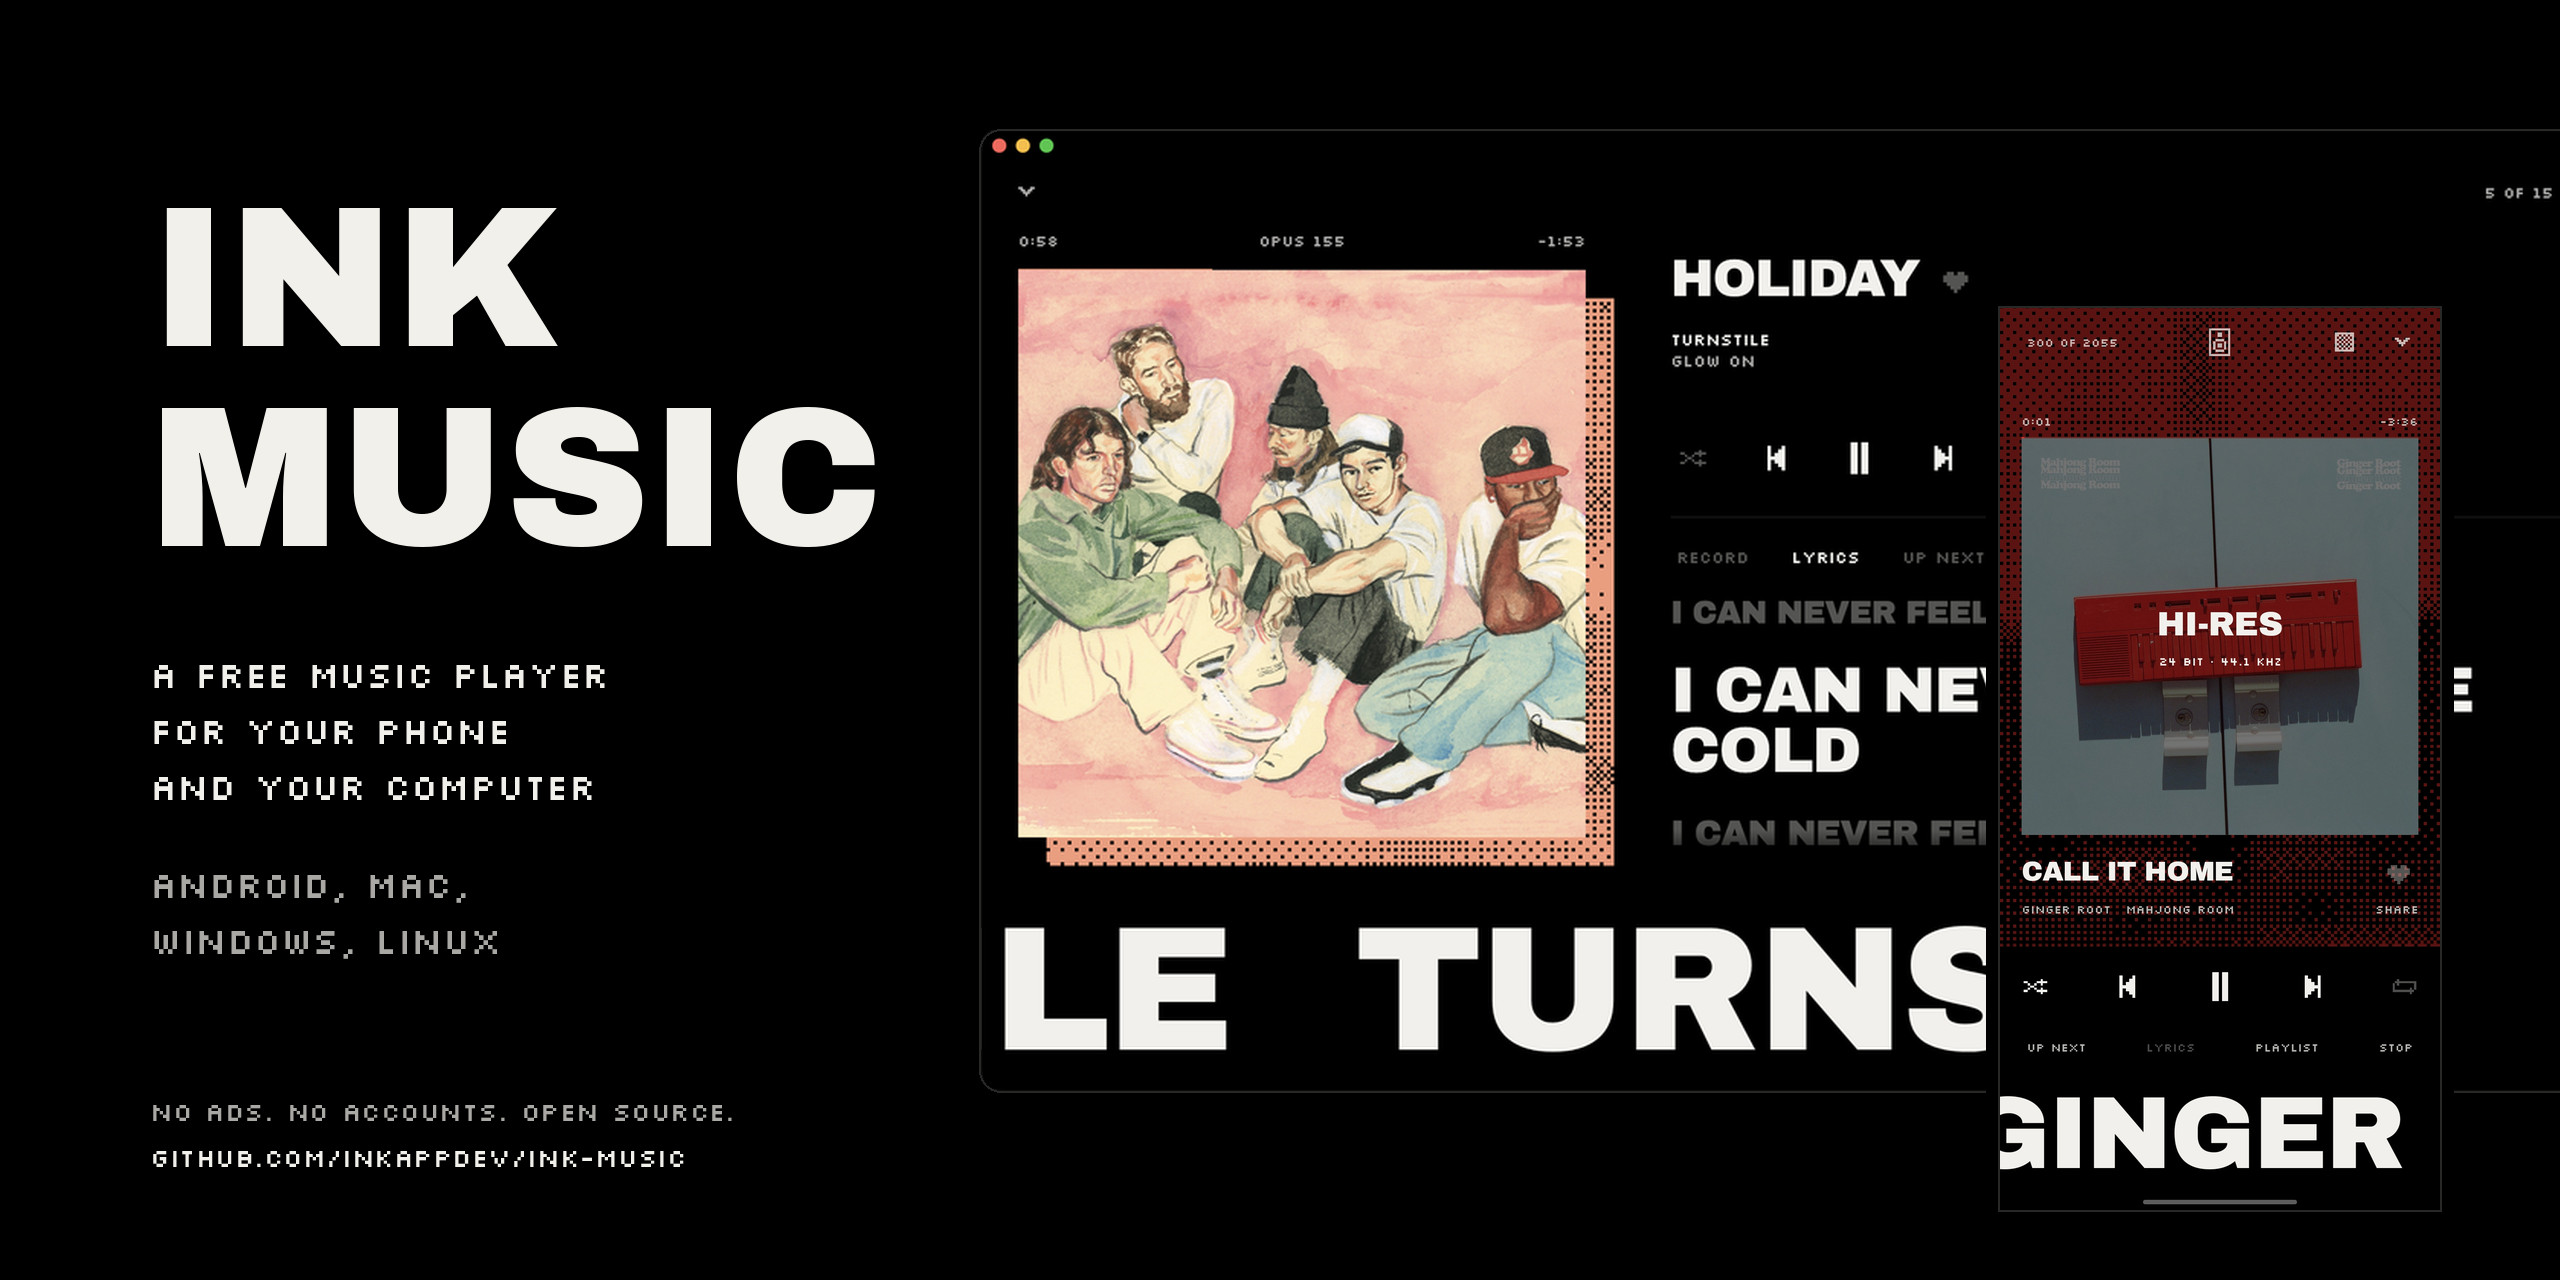
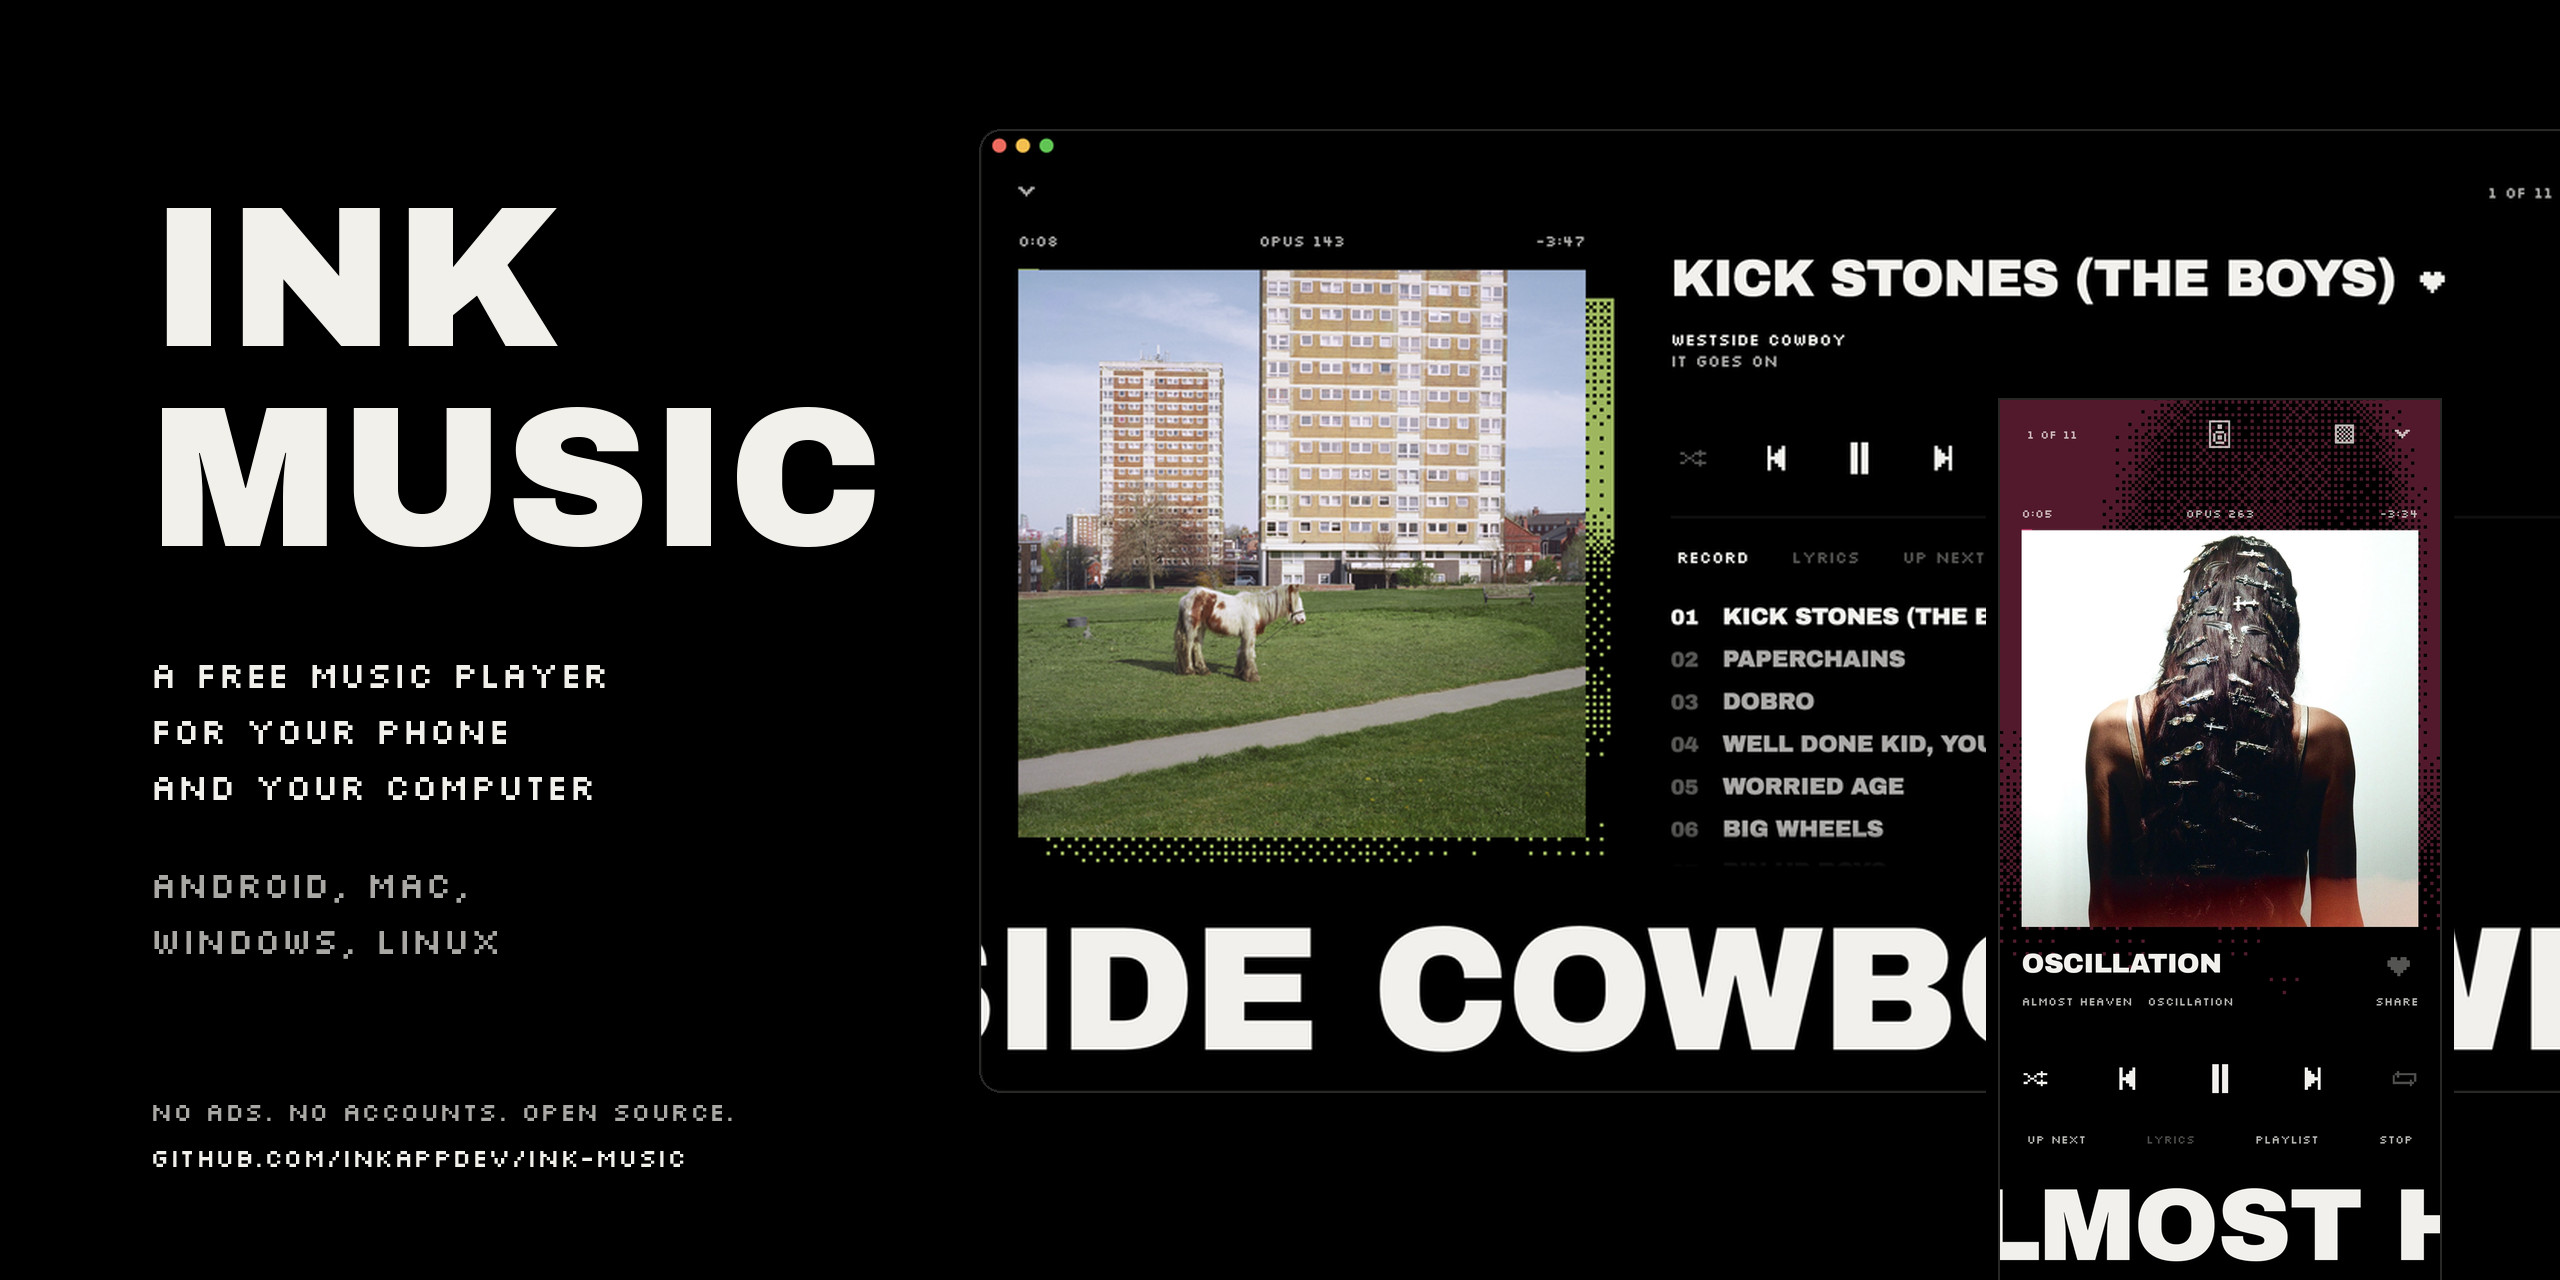
The social preview: Westside Cowboy's Kick Stones on the computer, Almost Heaven's Oscillation on the phone; make-social.py takes a picture's path for the phone too

Changed region(s): [[0.375, 0.1875, 1.0, 0.8438], [0.7812, 0.8125, 0.9688, 1.0], [0.9688, 0.125, 1.0, 0.1562]]

diff --git a/tools/make-social.py b/tools/make-social.py
@@ -5,7 +5,8 @@ any screen; a jpg, as GitHub takes 1 MB at most): INK MUSIC and what it is on th
 player (a window shot from the Mac, .github/desktop/) running off the edge, a phone (one of the store's screenshots)
 standing in front of its right side. Set by hand in the repo's settings (Settings, Social preview) after it's made.
 
-    python3 tools/make-social.py [phone] [window]   # a phone screenshot's number (default 1), a desktop shot (default player)
+    python3 tools/make-social.py [phone] [window]   # a phone screenshot's number or a picture's path (default 1),
+                                                    # a desktop shot (default westside)
 """
 import os
 import sys
@@ -21,7 +22,7 @@ EDGE = (40, 40, 39)                       # the 12% hairline
 
 W, H = 2560, 1280
 phone = sys.argv[1] if len(sys.argv) > 1 else "1"
-window = sys.argv[2] if len(sys.argv) > 2 else "player"
+window = sys.argv[2] if len(sys.argv) > 2 else "westside"
 
 img = Image.new("RGB", (W, H), (0, 0, 0))
 d = ImageDraw.Draw(img)
@@ -39,10 +40,10 @@ img.paste(shot, (wx, wy), shot)
 d.rounded_rectangle((wx - 1, wy - 1, wx + ww, wy + shot.height), radius=22, outline=EDGE, width=2)
 
 # the phone: in front of the window's right side (the cover and title left clear), a hairline round it and black between them
-p = Image.open(os.path.join(SHOTS, f"{phone}.png")).convert("RGB")
+p = Image.open(phone if os.path.isfile(phone) else os.path.join(SHOTS, f"{phone}.png")).convert("RGB")
 pw = 440
 p = p.resize((pw, p.height * pw // p.width), Image.LANCZOS)
-px, py = W - pw - 120, H - p.height - 70
+px, py = W - pw - 120, 400   # below the title, running just off the foot
 d.rectangle((px - 14, py - 14, px + pw + 13, py + p.height + 13), fill=(0, 0, 0))
 img.paste(p, (px, py))
 d.rectangle((px - 2, py - 2, px + pw + 1, py + p.height + 1), outline=EDGE, width=2)
@@ -60,4 +61,4 @@ d.text((x, 1140), "GITHUB.COM/INKAPPDEV/INK-MUSIC", font=silk(26), fill=INK)
 
 out = os.path.join(ROOT, ".github/social-preview.jpg")
 img.save(out, quality=90, optimize=True, progressive=True, subsampling=0)
-print(f"made {out} ({os.path.getsize(out) // 1024} KB) from phone {phone} and the computer's {window}")
+print(f"made {out} ({os.path.getsize(out) // 1024} KB) from phone {os.path.basename(phone)} and the computer's {window}")
